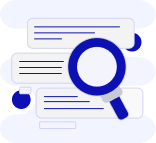
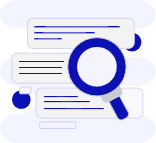
Update blog and FAQ;

diff --git a/src/app/components/contact-us/contact-us.component.scss b/src/app/components/contact-us/contact-us.component.scss
@@ -245,7 +245,18 @@
 @font-face {
   font-family: 'Diodrum Pill';
   src: url('/assets/fonts/alfont_com_AlFont_com_DiodrumArabic-Bold-1.ttf') format('truetype');
-  font-weight: 100 900;
+  font-weight: 600;
+  font-style: normal;
+  font-display: swap;
+  ascent-override: 80%;
+  descent-override: 20%;
+  line-gap-override: 0%;
+}
+
+@font-face {
+  font-family: 'Diodrum Pill';
+  src: url('/assets/fonts/alfont_com_AlFont_com_DiodrumArabic-Bold-1.ttf') format('truetype');
+  font-weight: 700;
   font-style: normal;
   font-display: swap;
   ascent-override: 80%;
@@ -266,6 +277,9 @@
   line-height: 1;
   padding: 0 0.9rem;
   font-family: 'Diodrum Pill', 'Diodrum Arabic', sans-serif;
+  font-weight: 600;
+  /* عندهم الحروف كانت لسه أعلى من نص الزرار بدرجة بسيطة */
+  transform: translateY(1px);
 }
 
 .contact-preline {

diff --git a/src/app/components/faq/faq.component.html b/src/app/components/faq/faq.component.html
@@ -74,7 +74,7 @@
       </div>
 
       <div class="page-empty-state" *ngIf="!faqs.length">
-        <img src="assets/images/empty/faqs-empty.svg" alt="" class="page-empty-state__img" width="156" height="143" />
+        <img src="assets/images/empty/faqs-empty.png" alt="" class="page-empty-state__img" width="156" height="143" />
         <p class="page-empty-state__text">{{ language.label('noFaqsYet') }}</p>
       </div>
     </div>

diff --git a/src/app/components/faq/faq.component.scss b/src/app/components/faq/faq.component.scss
@@ -189,5 +189,5 @@
 
 /* الهيدر هنا ليه padding تحت أصلاً — نفس مسافة صفحة Blogs بين الوصف والصورة */
 .faq-section--empty .page-empty-state {
-  padding-top: 1.25rem;
+  padding-top: 2.75rem;
 }

diff --git a/src/styles.scss b/src/styles.scss
@@ -360,7 +360,7 @@ body.mobile-nav-open {
   flex-direction: column;
   align-items: center;
   gap: 1.25rem;
-  padding: 4.25rem 1rem 1.5rem;
+  padding: 5.75rem 1rem 1.5rem;
   text-align: center;
 }
 
